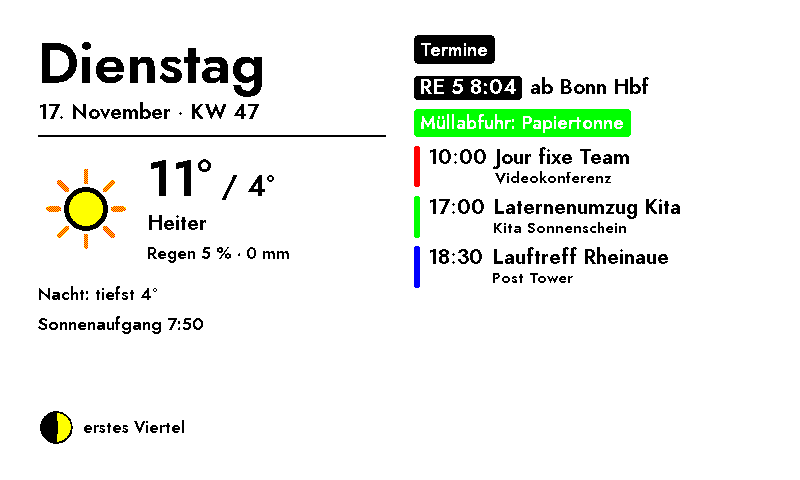
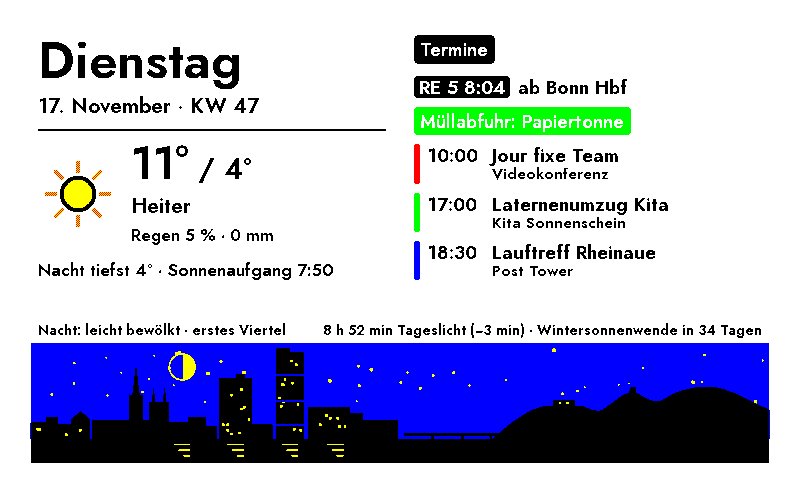
Add files via upload

diff --git a/tagesdashboard/render/tagesdashboard.html b/tagesdashboard/render/tagesdashboard.html
@@ -3,7 +3,7 @@
 {% block content %}
 {% if night %}
 <!-- ===================== Nachtbild ===================== -->
-<div lang="de" class="nt {{ orientation }}">
+<div lang="de" class="nt {{ orientation }}{% if night.art %} has-art{% endif %}">
   <section class="nt-day">
     <div class="nt-wd">{{ night.weekday }}</div>
     <div class="nt-date">{{ night.date }} · KW {{ night.kw }}</div>
@@ -18,8 +18,12 @@
     </div>
     {% endif %}
     <div class="nt-facts">
+      {% if night.art %}
+      <div>{% if night.night_low %}<span class="{% if night.frost %}nt-frost{% endif %}">Nacht tiefst {{ night.night_low }}°{% if night.frost %}, Frost{% endif %}</span>{% endif %}{% if night.night_low and night.sunrise %} · {% endif %}{% if night.sunrise %}Sonnenaufgang {{ night.sunrise }}{% endif %}</div>
+      {% else %}
       {% if night.night_low %}<div class="{% if night.frost %}nt-frost{% endif %}">Nacht: tiefst {{ night.night_low }}°{% if night.frost %} · Frost{% endif %}</div>{% endif %}
       {% if night.sunrise %}<div>Sonnenaufgang {{ night.sunrise }}</div>{% endif %}
+      {% endif %}
     </div>
     <div class="nt-moon">{{ night.moon.svg | safe }}<span>{{ night.moon.name }}</span></div>
   </section>
@@ -34,6 +38,16 @@
     {% if night.more %}<div class="nt-more">+ {{ night.more }} weitere</div>{% endif %}
     {% if view_error %}<div class="nt-err">{{ view_error }}</div>{% endif %}
   </section>
+  {% if night.art %}
+  <!-- Bonner Silhouette mit dem Himmel der Nacht, darüber Wetter und Tageslicht -->
+  <section class="nt-art">
+    <div class="nt-art-cap">
+      <span>Nacht: {% if night.art.weather %}{{ night.art.weather }} · {% endif %}{{ night.moon.name }}</span>
+      {% if night.art.daylight %}<span>{{ night.art.daylight }}</span>{% endif %}
+    </div>
+    {{ night.art.svg | safe }}
+  </section>
+  {% endif %}
 </div>
 {% elif week %}
 <!-- ===================== Wochenvorschau ===================== -->

diff --git a/tagesdashboard/render/tagesdashboard.css b/tagesdashboard/render/tagesdashboard.css
@@ -389,3 +389,29 @@
 .wk-more, .wk-free { font-size: calc(var(--u) * 1.8); }
 .wk-err { font-size: calc(var(--u) * 1.7); }
 .portrait .wk-chip { font-size: calc(var(--u) * 2.1); }
+
+/* ---------- Bonner Silhouette im Nachtbild ---------- */
+.nt.has-art { grid-template-rows: minmax(0, 1fr) auto; }
+.nt.portrait.has-art { grid-template-rows: auto minmax(0, 1fr) auto; }
+.nt-art {
+  grid-column: 1 / -1;
+  display: flex; flex-direction: column; gap: calc(var(--u) * 0.5);
+  margin: calc(var(--u) * 1) calc(var(--u) * -2.6) calc(var(--u) * -2.2);
+}
+.nt-art-cap {
+  display: flex; justify-content: space-between; gap: calc(var(--u) * 2);
+  padding: 0 calc(var(--u) * 2.6);
+  font-size: calc(var(--u) * 1.75); line-height: 1.2;
+  white-space: nowrap;
+}
+.portrait .nt-art-cap { flex-direction: column; gap: calc(var(--u) * 0.2); }
+.nt-art .art-svg { display: block; width: 100%; height: calc(var(--u) * 15); }
+.portrait .nt-art .art-svg { height: calc(var(--u) * 17); }
+/* Mit Silhouette: Mond steht in der Bildunterschrift, oben etwas kompakter */
+.has-art .nt-moon { display: none; }
+.has-art .nt-wd { font-size: calc(var(--u) * 6.4); }
+.has-art .nt-wx { margin-top: calc(var(--u) * 1.2); }
+.has-art .nt-icon { width: calc(var(--u) * 10); height: calc(var(--u) * 10); }
+.has-art .nt-temp { font-size: calc(var(--u) * 5.8); }
+.has-art .nt-facts { margin-top: calc(var(--u) * 1.2); }
+.has-art .nt-ev { font-size: calc(var(--u) * 2.4); }

diff --git a/tagesdashboard/settings.html b/tagesdashboard/settings.html
@@ -2,7 +2,7 @@
 <script src="https://unpkg.com/leaflet@1.9.4/dist/leaflet.js" integrity="sha256-20nQCchB9co0qIjJZRGuk2/Z9VM+kNiyxNV1lvTlZBo=" crossorigin=""></script>
 
 <!-- Markiert gespeicherte Einstellungen: nicht angehakte Checkboxen gelten dann als "aus" -->
-<input type="hidden" name="cfgVersion" value="5" />
+<input type="hidden" name="cfgVersion" value="6" />
 
 <div class="form-group">
     <label class="form-label">Wetter-Ort:</label>
@@ -84,6 +84,7 @@
     <div class="form-group"><input type="checkbox" class="db-check" id="nightEnabled" name="nightEnabled" value="true" data-default="true" data-since="5"><span>Nachts ein ruhiges Bild für den kommenden Tag zeigen</span></div>
     <div class="form-group"><span>von</span><input type="time" id="nightFrom" name="nightFrom" class="form-input" /><span>bis</span><input type="time" id="nightTo" name="nightTo" class="form-input" /></div>
     <div class="form-group"><input type="checkbox" class="db-check" id="nightFreeze" name="nightFreeze" value="true" data-default="true" data-since="5"><span>Nachts nur einmal zeichnen (kein Flackern bis zum Morgen)</span></div>
+    <div class="form-group"><input type="checkbox" class="db-check" id="nightArt" name="nightArt" value="true" data-default="true" data-since="6"><span>Bonner Silhouette mit dem Himmel der Nacht und Tageslicht zeigen</span></div>
 </div>
 
 <div class="form-group">

diff --git a/tagesdashboard/nachtgrafik.py b/tagesdashboard/nachtgrafik.py
@@ -1,0 +1,205 @@
+"""
+Bonner Silhouette für das Nachtbild – jede Nacht ein bisschen anders.
+
+Das Band zeigt Münster, Langer Eugen, Post Tower, die Kennedybrücke und das Siebengebirge
+mit Petersberg, Drachenfels und Ölberg, davor den Rhein. Der Himmel zeigt die kommende Nacht:
+  * Sterne bei klarem Himmel (Anzahl nach Bewölkung, Lage wechselt jeden Tag)
+  * Wolken, Regen- oder Schneestriche, Nebelbänder
+  * den Mond in seiner Phase; seine Lage wechselt täglich
+Dazu eine Zeile zum Tageslicht (Länge, Änderung zum Vortag, Countdown zur Sonnenwende).
+
+Gezeichnet wird nur mit den sechs Displayfarben (helle Wolken werden fein gerastert).
+Die Gebäude sind eigene, vereinfachte Umrisse.
+"""
+
+import math
+import random
+from datetime import date, datetime, timedelta, timezone
+
+SKY, STAR, INK, WHITE, CLOUD = "#0B3D91", "#FFE500", "#000000", "#FFFFFF", "#BFDCFF"
+WATER, H = 104, 130
+SYNODIC = 29.530588853
+NEW_MOON_REF = datetime(2000, 1, 6, 18, 14, tzinfo=timezone.utc)
+
+
+# ----------------------------------------------------------------------
+# Wetter und Tageslicht
+# ----------------------------------------------------------------------
+def night_weather(records, start, end):
+    """Bewölkung, Niederschlag, Schnee und Nebel zwischen start und end."""
+    hours = [r for r in records if start <= r["dt"] < end]
+    if not hours:
+        return None
+    clouds = [r["cloud_cover"] for r in hours if r.get("cloud_cover") is not None]
+    icons = {r.get("icon") for r in hours} | {r.get("condition") for r in hours}
+    precip = sum(r.get("precipitation") or 0 for r in hours)
+    return {
+        "cloud": sum(clouds) / len(clouds) if clouds else None,
+        "precip": precip,
+        "wet": precip >= 0.3 or bool(icons & {"rain", "snow", "sleet", "hail"}),
+        "snowy": bool(icons & {"snow", "sleet"}),
+        "fog": "fog" in icons,
+    }
+
+
+def describe(wx):
+    if wx is None:
+        return ""
+    c = wx["cloud"] or 0
+    if wx["wet"]:
+        return "Schnee" if wx["snowy"] else "Regen"
+    if wx["fog"]:
+        return "Nebel"
+    return "sternklar" if c < 30 else "leicht bewölkt" if c < 60 else "bewölkt" if c < 85 else "bedeckt"
+
+
+def _length(sun_times, d):
+    sr, ss = sun_times(d)
+    return (ss - sr).total_seconds() / 60 if sr and ss else None
+
+
+def _solstice(sun_times, year, month):
+    """Tag mit kürzestem (Dezember) bzw. längstem (Juni) Tageslicht."""
+    days = [date(year, month, k) for k in range(15, 28)]
+    vals = [(d, _length(sun_times, d)) for d in days]
+    vals = [v for v in vals if v[1] is not None]
+    if not vals:
+        return None
+    return (min if month == 12 else max)(vals, key=lambda v: v[1])[0]
+
+
+def daylight(sun_times, d):
+    """„9 h 7 min Tageslicht (−3 min) · Wintersonnenwende in 39 Tagen“ (Änderung zum Vortag)."""
+    today, before = _length(sun_times, d), _length(sun_times, d - timedelta(days=1))
+    if today is None:
+        return ""
+    first = f"{int(today // 60)} h {round(today % 60)} min Tageslicht"
+    if before is not None:
+        diff = round(today - before)
+        first += f" ({'+' if diff > 0 else '−'}{abs(diff)} min)" if diff else " (wie am Vortag)"
+    parts = [first]
+    for month, name in ((12, "Wintersonnenwende"), (6, "Sommersonnenwende")):
+        for year in (d.year, d.year + 1):
+            s = _solstice(sun_times, year, month)
+            if s is None or s < d:
+                continue
+            gap = (s - d).days
+            if gap == 0:
+                parts.append(f"heute {name}")
+            elif gap <= 45:
+                parts.append(f"{name} in {gap} Tag{'en' if gap != 1 else ''}")
+            break
+    return " · ".join(parts)
+
+
+# ----------------------------------------------------------------------
+# Zeichnen
+# ----------------------------------------------------------------------
+def _moon(cx, cy, r, when):
+    age = ((when - NEW_MOON_REF).total_seconds() / 86400) % SYNODIC
+    phase = age / SYNODIC
+    rx = abs(math.cos(2 * math.pi * phase)) * r
+    waxing, gibbous = phase < 0.5, 0.25 < phase < 0.75
+    side = 1 if waxing else 0
+    back = (1 if gibbous else 0) if waxing else (0 if gibbous else 1)
+    return (f'<path d="M{cx},{cy - r} A{r},{r} 0 0 {side} {cx},{cy + r} A{rx:.2f},{r} 0 0 {back} {cx},{cy - r} Z" fill="{STAR}"/>'
+            f'<circle cx="{cx}" cy="{cy}" r="{r}" fill="none" stroke="{STAR}" stroke-width="1.6"/>')
+
+
+# Stadt in eigenen Koordinaten (0–400 breit, Grundlinie WATER). Einfache Umrisse.
+CITY = [
+    # Häuser links mit Giebeln
+    "M0,104 L0,86 L16,86 L16,80 L30,80 L30,88 L44,88 L44,82 L54,74 L64,82 L64,104 Z",
+    # Bonner Münster: Langhaus, Vierungsturm mit hoher Spitze, zwei Osttürme
+    "M66,104 L66,84 L106,84 L106,56 L110,56 L114,22 L118,56 L122,56 L122,84 L128,84 L128,64 L131,64 L133,46 "
+    "L135,64 L140,64 L140,64 L143,64 L145,46 L147,64 L150,64 L150,104 Z",
+    # Häuser
+    "M150,104 L150,86 L170,86 L170,80 L190,80 L190,90 L202,90 L202,104 Z",
+    # Langer Eugen (Abgeordnetenhochhaus) mit Dachaufbau
+    "M204,104 L204,38 L222,38 L222,34 L232,34 L232,38 L240,38 L240,104 Z",
+    "M240,104 L240,88 L262,88 L262,104 Z",
+    # Post Tower: zwei gegeneinander versetzte Hälften
+    "M266,104 L266,6 L281,6 L281,104 Z",
+    "M281,104 L281,10 L296,10 L296,104 Z",
+    # Schürmann-Bau / UN-Campus
+    "M300,104 L300,70 L346,70 L346,76 L360,76 L360,104 Z",
+    "M360,104 L360,84 L398,84 L398,104 Z",
+]
+WINDOWS = [(206, 238, 42, 100, 10), (268, 294, 12, 100, 12), (302, 344, 74, 100, 6), (2, 62, 90, 102, 4)]
+# Siebengebirge in eigenen Koordinaten (0–300 breit): Petersberg (mit Hotel), Drachenfels (Ruine), Ölberg
+HILLS = ("M0,104 C20,86 40,70 60,68 L96,68 C104,70 112,76 120,72 C132,64 140,56 148,54 L150,48 L156,48 "
+         "L156,54 C164,58 174,66 184,62 C202,50 222,46 242,48 C264,52 284,66 300,72 L300,104 Z")
+HOTEL = (66, 62, 24, 6)
+
+
+def svg(now, wx, width=800, seed=None):
+    """SVG-Band für die Nacht. width: 800 quer, 480 hochkant."""
+    W = width
+    s = min(1.0, (W - 230) / 400)  # Stadt im Hochformat etwas kleiner
+    rnd = random.Random(seed if seed is not None else now.date().toordinal())
+    cloud = (wx or {}).get("cloud") or 0
+    wet, snowy, fog = (wx or {}).get("wet"), (wx or {}).get("snowy"), (wx or {}).get("fog")
+    out = [f'<svg viewBox="0 0 {W} {H}" class="art-svg" preserveAspectRatio="xMidYMid meet">',
+           f'<rect width="{W}" height="{WATER}" fill="{SKY}"/>']
+
+    # Sterne
+    n = 0 if wet or fog else 80 if cloud < 30 else 45 if cloud < 60 else 14 if cloud < 85 else 0
+    n = round(n * W / 800)
+    for _ in range(n):
+        out.append(f'<circle cx="{rnd.uniform(3, W - 3):.0f}" cy="{rnd.uniform(3, 66):.0f}" '
+                   f'r="{rnd.choice((1.2, 1.4, 1.7, 2.2))}" fill="{STAR}"/>')
+
+    # Mond: Lage wechselt täglich, nie hinter dem Post Tower
+    city_w = 400 * s
+    hills_x = W - 300 * s
+    slots = [x for x in range(int(city_w) + 20, int(hills_x) + 40, 12)] + [x for x in range(20, int(250 * s), 12)]
+    mx = slots[(now.date().toordinal() * 7) % len(slots)] if slots else W // 2
+    if not (wet and cloud >= 85):
+        out.append(_moon(mx, 26, 14, now))
+
+    # Wolken (hell, werden auf dem Display fein gerastert)
+    if cloud >= 45:
+        for _ in range(3 if cloud < 70 else 5 if cloud < 90 else 8):
+            out.append(f'<ellipse cx="{rnd.uniform(20, W - 20):.0f}" cy="{rnd.uniform(14, 48):.0f}" '
+                       f'rx="{rnd.uniform(45, 95) * W / 800 + 20:.0f}" ry="{rnd.uniform(9, 15):.0f}" fill="{CLOUD}"/>')
+
+    # Stadt und Berge (Stadt links, Siebengebirge rechts, beide unten verankert)
+    out.append(f'<g transform="translate(0,{WATER}) scale({s:.3f}) translate(0,-{WATER})">')
+    out += [f'<path d="{p}" fill="{INK}"/>' for p in CITY]
+    for x0, x1, y0, y1, k in WINDOWS:
+        for _ in range(k):
+            out.append(f'<rect x="{rnd.uniform(x0, x1 - 3):.0f}" y="{rnd.uniform(y0, y1 - 3):.0f}" width="3" height="3" fill="{STAR}"/>')
+    for y in (34, 62, 88):  # Fugen der Sky-Lobbys im Post Tower
+        out.append(f'<rect x="266" y="{y}" width="30" height="1.6" fill="{SKY}"/>')
+    out.append("</g>")
+    out.append(f'<g transform="translate({hills_x:.1f},{WATER}) scale({s:.3f}) translate(0,-{WATER})">'
+               f'<path d="{HILLS}" fill="{INK}"/>'
+               f'<rect x="{HOTEL[0]}" y="{HOTEL[1]}" width="{HOTEL[2]}" height="{HOTEL[3]}" fill="{INK}"/>'
+               f'<rect x="72" y="64" width="3" height="2" fill="{STAR}"/><rect x="80" y="64" width="3" height="2" fill="{STAR}"/>'
+               f'</g>')
+
+    # Rhein mit Kennedybrücke und Spiegelungen
+    out.append(f'<rect y="{WATER}" width="{W}" height="{H - WATER}" fill="{INK}"/>')
+    bx0, bx1 = city_w + 4, hills_x + 30 * s
+    if bx1 - bx0 > 40:
+        out.append(f'<rect x="{bx0:.0f}" y="{WATER - 6}" width="{bx1 - bx0:.0f}" height="3" fill="{INK}"/>')
+        for k in range(1, 4):
+            px = bx0 + (bx1 - bx0) * k / 4
+            out.append(f'<rect x="{px - 1.5:.0f}" y="{WATER - 6}" width="3" height="6" fill="{INK}"/>')
+    for x in [222 * s, 281 * s, 330 * s] + ([mx] if not (wet and cloud >= 85) else []):
+        for k in range(3):
+            out.append(f'<rect x="{x - 9 + k * 5:.0f}" y="{WATER + 5 + k * 6}" width="{18 - k * 5}" height="2" fill="{STAR}"/>')
+
+    # Niederschlag und Nebel vor allem
+    if wet:
+        for _ in range(round(120 * W / 800)):
+            x, y = rnd.uniform(0, W), rnd.uniform(0, WATER - 8)
+            if snowy:
+                out.append(f'<circle cx="{x:.0f}" cy="{y:.0f}" r="1.9" fill="{WHITE}"/>')
+            else:
+                out.append(f'<line x1="{x:.0f}" y1="{y:.0f}" x2="{x - 4:.0f}" y2="{y + 10:.0f}" stroke="{WHITE}" stroke-width="1.5"/>')
+    if fog:
+        for y in (66, 80, 94):
+            out.append(f'<rect y="{y}" width="{W}" height="6" fill="{CLOUD}"/>')
+    out.append("</svg>")
+    return "".join(out)

diff --git a/tagesdashboard/tagesdashboard.py b/tagesdashboard/tagesdashboard.py
@@ -42,9 +42,9 @@ except Exception as exc:  # Plugin soll InkyPi beim Start nicht blockieren
     IMPORT_ERROR = exc
 
 try:
-    from . import kleidung, bahn, nachrichten, waesche, ansichten
+    from . import kleidung, bahn, nachrichten, waesche, ansichten, nachtgrafik
 except ImportError:  # pragma: no cover
-    from plugins.tagesdashboard import kleidung, bahn, nachrichten, waesche, ansichten
+    from plugins.tagesdashboard import kleidung, bahn, nachrichten, waesche, ansichten, nachtgrafik
 
 WOCHENTAGE = ["Montag", "Dienstag", "Mittwoch", "Donnerstag", "Freitag", "Samstag", "Sonntag"]
 WOCHENTAGE_KURZ = ["Mo", "Di", "Mi", "Do", "Fr", "Sa", "So"]
@@ -89,6 +89,8 @@ DEFAULTS = {
     # Nachtbild und Wochenvorschau (seit cfgVersion 5)
     "nightEnabled": "true", "nightFrom": "23:00", "nightTo": "06:00", "nightFreeze": "true",
     "weekEnabled": "true", "weekFrom": "18:00", "weekTo": "23:00",
+    # Bonner Silhouette im Nachtbild (seit cfgVersion 6)
+    "nightArt": "true",
 }
 # Ab welcher cfgVersion es einen Schlüssel gibt. Ist die gespeicherte Version älter, gilt für
 # Checkboxen der Standardwert statt "fehlt = aus" (sonst wären neue Funktionen stumm aus).
@@ -96,6 +98,7 @@ SINCE_VERSION = {k: 2 for k in DEFAULTS if k.startswith("train") or k == "quietM
 SINCE_VERSION.update({k: 3 for k in DEFAULTS if k.startswith("news")})
 SINCE_VERSION.update({k: 4 for k in DEFAULTS if k.startswith("laundry")})
 SINCE_VERSION.update({k: 5 for k in DEFAULTS if k.startswith(("night", "week"))})
+SINCE_VERSION["nightArt"] = 6
 WEEK_DAY = 6  # Wochenvorschau sonntags
 
 # Das Nachtbild wird einmal gezeichnet und bis zum Ende der Nacht wiederverwendet
@@ -290,7 +293,8 @@ class Tagesdashboard(BasePlugin):
                                         api_key=device_config.load_env_key("DB_API_KEY"))
         params["orientation"] = "portrait" if dimensions[1] > dimensions[0] else "landscape"
         if mode != "normal":
-            self.special_view(params, mode, now, tz, events, weather, train_cfg, cal_error)
+            self.special_view(params, mode, now, tz, events, weather, train_cfg, cal_error,
+                              art=flag("nightArt"), night_end=ansichten.window_end(now, *night_win) if night_win else None)
 
         image = self.render_image(dimensions, "tagesdashboard.html", "tagesdashboard.css", params)
         if not image:
@@ -322,7 +326,7 @@ class Tagesdashboard(BasePlugin):
     # ==================================================================
     # Nachtbild und Wochenvorschau
     # ==================================================================
-    def special_view(self, params, mode, now, tz, events, weather, train_cfg, cal_error):
+    def special_view(self, params, mode, now, tz, events, weather, train_cfg, cal_error, art=False, night_end=None):
         helper = nc.NextcloudKalender({"id": "nextcloud_kalender"})
         records = weather["records"] if weather else []
         w = weather["dwd_plugin"] if weather else None
@@ -334,6 +338,13 @@ class Tagesdashboard(BasePlugin):
             d = now.date() if now.hour < 12 else now.date() + timedelta(days=1)
             params["night"] = ansichten.night(now, records if w else [], items_on(d), w, dwd, icons, train_cfg,
                                               weather["sun_cache"] if weather else None)
+            if art:
+                wx = nachtgrafik.night_weather(records, now, night_end or now + timedelta(hours=7)) if records else None
+                params["night"]["art"] = {
+                    "svg": nachtgrafik.svg(now, wx, width=480 if params["orientation"] == "portrait" else 800),
+                    "weather": nachtgrafik.describe(wx),
+                    "daylight": nachtgrafik.daylight(weather["sun_cache"], d) if weather else "",
+                }
         else:
             portrait = params["orientation"] == "portrait"
             params["week"] = ansichten.week(now, records if w else [], items_on, w, dwd, icons, train_cfg,

diff --git a/tagesdashboard/ansichten.py b/tagesdashboard/ansichten.py
@@ -97,7 +97,7 @@ def moon_svg(age, cls):
     lit_path = (f"M{c},{c - r} A{r},{r} 0 0 {side} {c},{c + r} "
                 f"A{rx:.2f},{r} 0 0 {sweep_back} {c},{c - r} Z")
     return (f'<svg class="{cls}" viewBox="0 0 48 48" aria-hidden="true">'
-            f'<circle cx="{c}" cy="{c}" r="{r}" fill="#000"/>'
+            f'<circle cx="{c}" cy="{c}" r="{r}" fill="#0B3D91"/>'
             f'<path d="{lit_path}" fill="#FFE500"/>'
             f'<circle cx="{c}" cy="{c}" r="{r}" fill="none" stroke="#000" stroke-width="2.4"/></svg>')
 

diff --git a/README.md b/README.md
@@ -41,7 +41,7 @@ Zusätzliche Python-Pakete braucht das Plugin nicht: `requests`, `astral`, `ical
 - **Termine (Nextcloud per CalDAV):** Kalenderfarben, Serientermine, ganztägige und mehrtägige Termine. Steigt das Regenrisiko während eines Termins auf mindestens 50 %, steht es am Termin.
 - **Nachrichten am Morgen:** werktags 6:00–9:30, am Wochenende 8:00–10:30 Uhr zeigt die rechte Spalte nur die heutigen Termine und darunter Schlagzeilen für Bonn (General-Anzeiger), NRW (WDR) und Bund (tagesschau). Ohne Liveblogs und doppelte Themen; quer bis zu zwei, hochkant bis zu drei pro Ebene, je nach Platz. Quellen und Zeiten sind einstellbar.
 - **Wäsche auf dem Balkon:** abends 17–23 Uhr eine Karte über den Terminen: „reinholen“ (Regen, Schnee, Sturmböen), „besser rein“ (Regen möglich, Nebel, Tau, Frost) oder „kann bleiben“ – geprüft bis morgen 10 Uhr. Für überdachte Balkone einstellbar.
-- **Nachtbild:** 23–6 Uhr ein ruhiges Bild für den kommenden Tag: Wochentag, Wetter, tiefste Nachttemperatur, Sonnenaufgang, Termine, Zug, Mondphase. Es wird einmal gezeichnet und bleibt bis zum Morgen stehen.
+- **Nachtbild:** 23–6 Uhr ein ruhiges Bild für den kommenden Tag: Wochentag, Wetter, tiefste Nachttemperatur, Sonnenaufgang, Termine, Zug, Mondphase. Unten ein Band mit der Bonner Silhouette – Münster, Langer Eugen, Post Tower, Kennedybrücke, Siebengebirge –, dessen Himmel das Wetter der Nacht zeigt (Sterne, Wolken, Regen, Schnee, Nebel, Mond), dazu Tageslicht und Countdown zur Sonnenwende. Es wird einmal gezeichnet und bleibt bis zum Morgen stehen.
 - **Wochenvorschau:** sonntags 18–23 Uhr die kommende Woche Mo–So in Zeilen mit Wetter, Regenwahrscheinlichkeit und Terminen.
 - **Zug (optional):** an ausgewählten Wochentagen in einem Zeitfenster eine Karte über den Terminen mit den Live-Daten eines Zuges, z. B. dienstags 6:30–8:15 Uhr der RE 5 ab Bonn Hbf um 8:04 Uhr: Verspätung mit neuer Abfahrtszeit, Gleiswechsel, Ausfall, vorzeitiges Zugende. Daten: Timetables-API der Deutschen Bahn (CC BY 4.0).
 - **Robust:** Fällt der Kalender oder das Wetter aus, zeigt das Dashboard den anderen Teil trotzdem an.
@@ -112,6 +112,7 @@ tagesdashboard/
 ├── nachrichten.py           # Morgen-Schlagzeilen aus RSS-Feeds
 ├── waesche.py               # Abends: Wäsche reinholen?
 ├── ansichten.py             # Nachtbild und Wochenvorschau
+├── nachtgrafik.py           # Bonner Silhouette fürs Nachtbild
 ├── settings.html            # Einstellungsseite (deutsch)
 ├── plugin-info.json
 ├── icon.png
@@ -123,7 +124,7 @@ tagesdashboard/
     └── eink.py              #   Farben auf die Displayfarben einrasten
 ```
 
-`lib/` enthält Kopien aus den Plugins „DWD Wetter“ und „Nextcloud Kalender“, Stand Version 1.5. Dadurch läuft das Dashboard ohne diese Plugins. Sind sie trotzdem installiert, stören sie sich nicht gegenseitig.
+`lib/` enthält Kopien aus den Plugins „DWD Wetter“ und „Nextcloud Kalender“, Stand Version 1.6. Dadurch läuft das Dashboard ohne diese Plugins. Sind sie trotzdem installiert, stören sie sich nicht gegenseitig.
 
 ## Datenquellen
 
@@ -135,6 +136,6 @@ tagesdashboard/
 
 ## Status
 
-Version 1.5 (Nachtbild, Wochenvorschau; 1.4: Wäsche-Karte am Abend; 1.3.1: Playlist-Intervall wurde verdoppelt; 1.3: Nachrichten am Morgen; 1.2: Zug-Live-Daten; 1.1: Farben einrasten, Schrift für E-Ink). Wird aktiv gepflegt; Fehlerberichte und Pull Requests sind willkommen.
+Version 1.6 (Bonner Silhouette im Nachtbild; 1.5: Nachtbild, Wochenvorschau; 1.4: Wäsche-Karte am Abend; 1.3.1: Playlist-Intervall wurde verdoppelt; 1.3: Nachrichten am Morgen; 1.2: Zug-Live-Daten; 1.1: Farben einrasten, Schrift für E-Ink). Wird aktiv gepflegt; Fehlerberichte und Pull Requests sind willkommen.
 
 Lizenz: GPL-3.0 (wie InkyPi).
